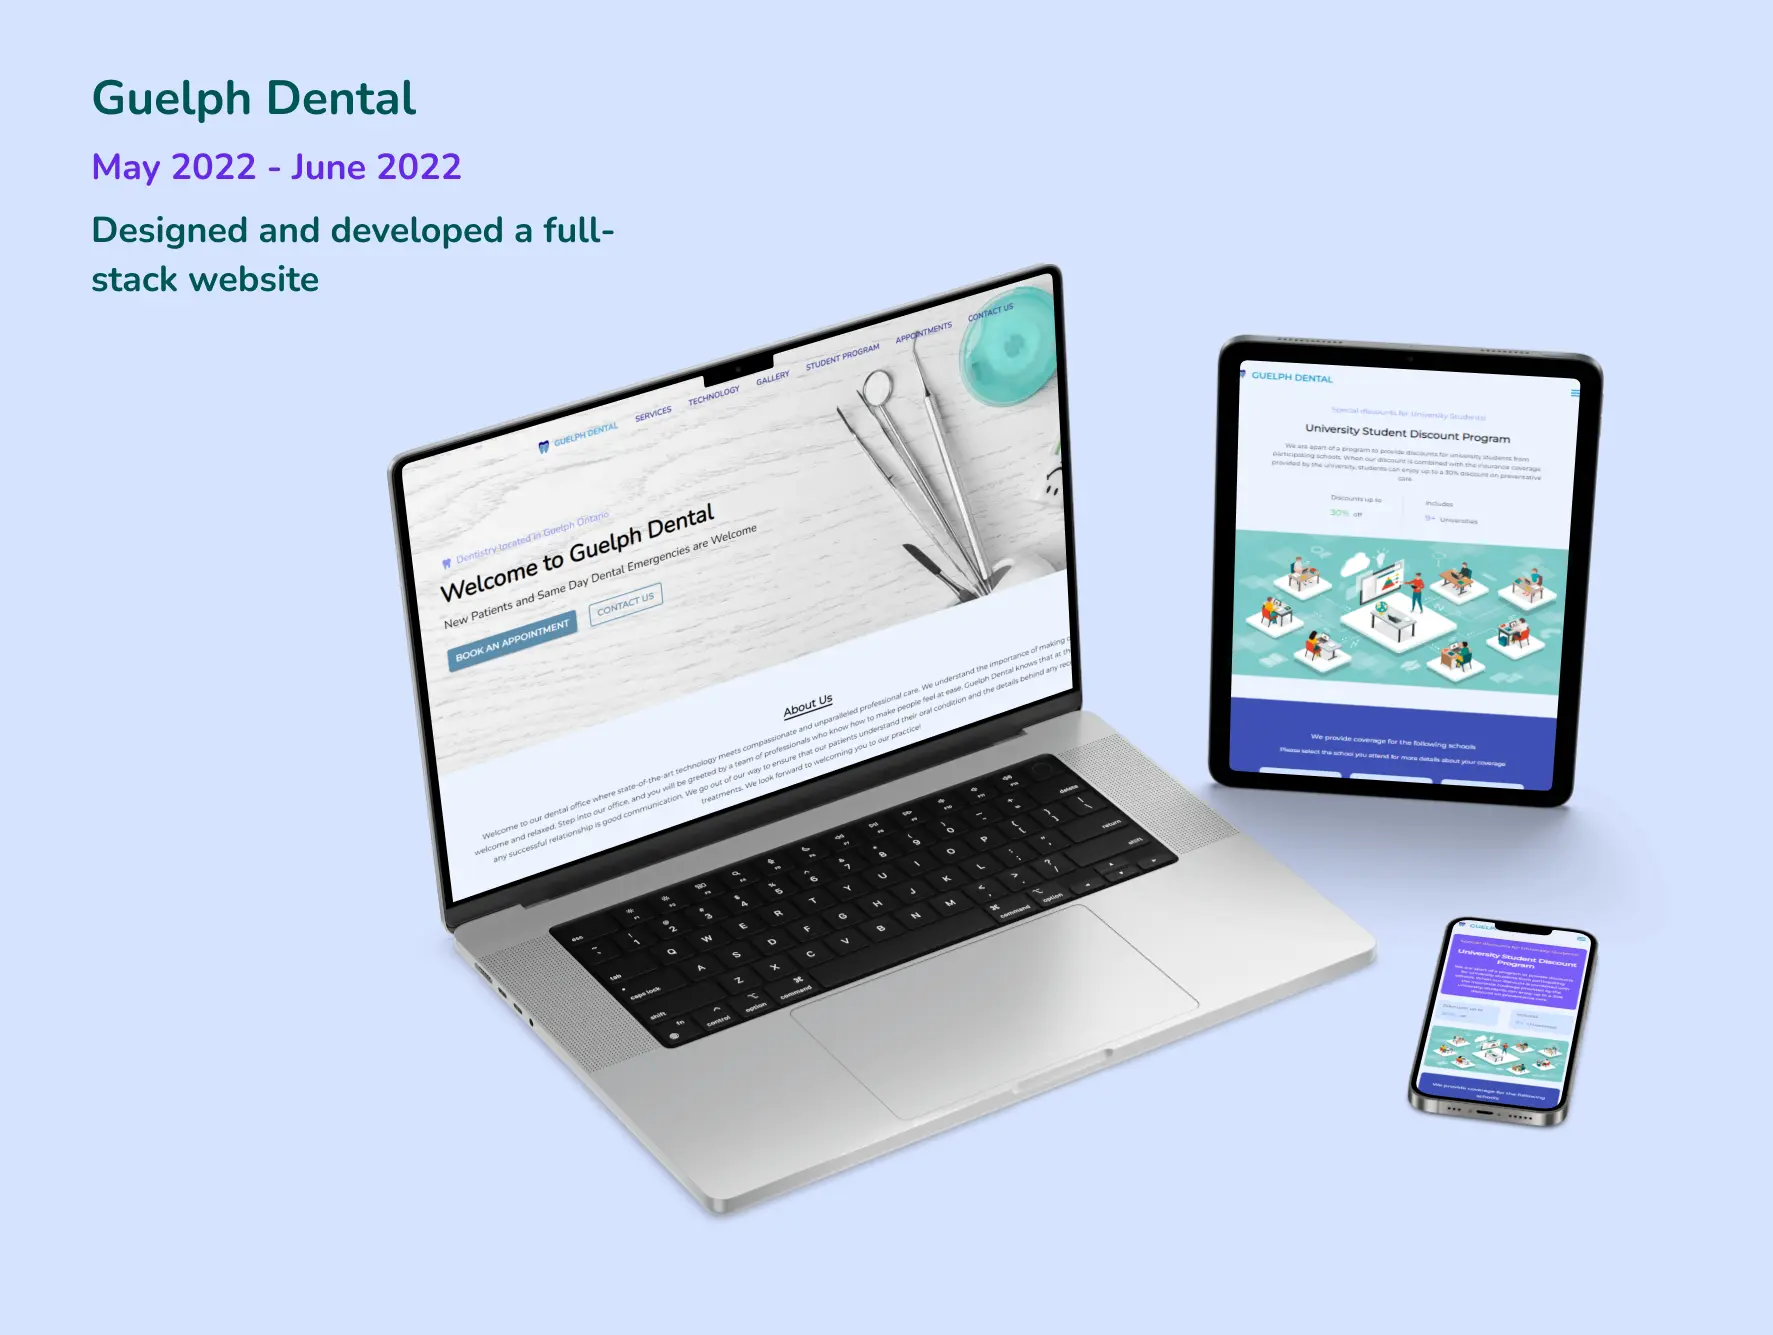
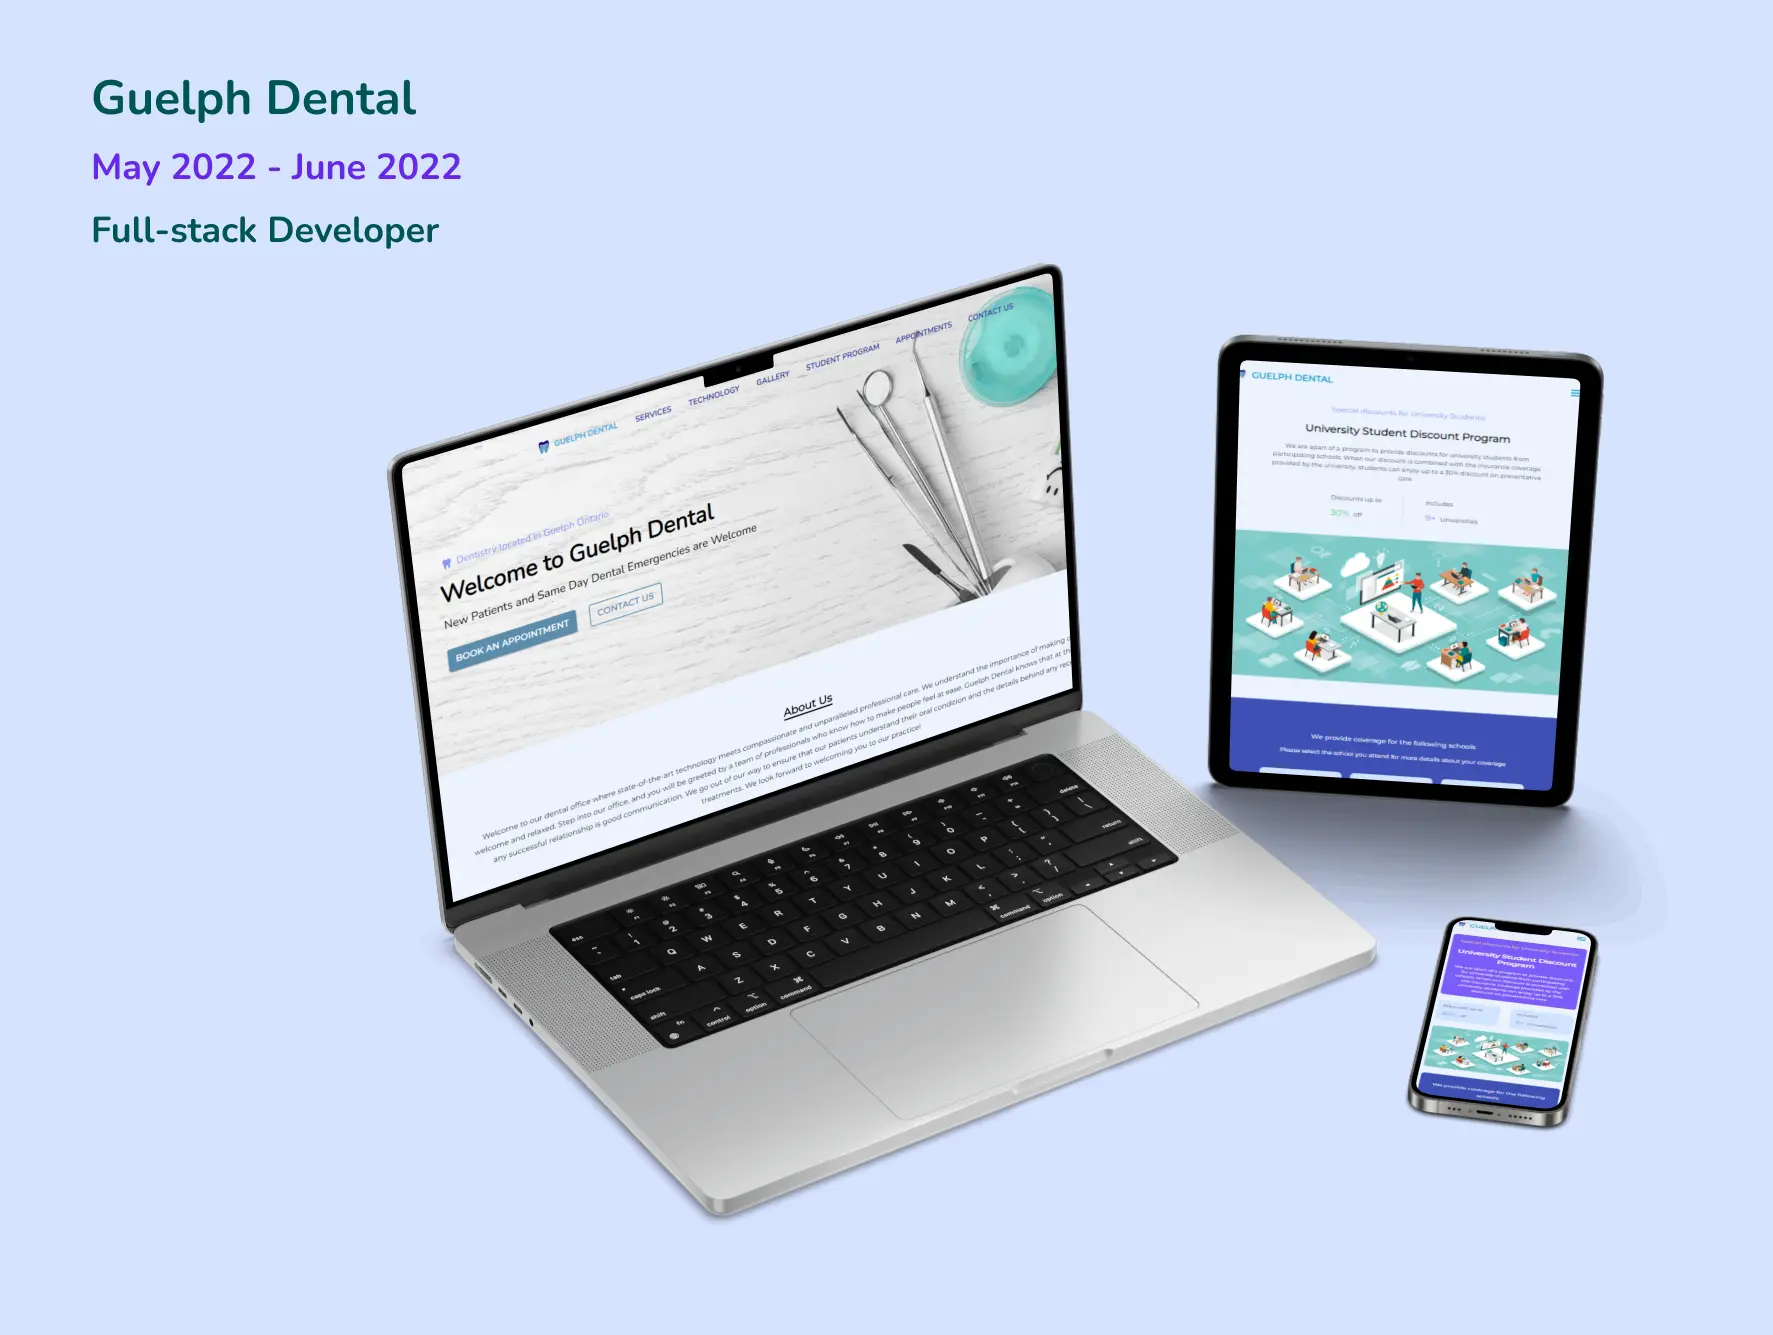
updated work images, removing desc and adding job title instead, looks better and makes more sense since desc is already there when u open

diff --git a/src/Pages/Work/cutsbyjz.js b/src/Pages/Work/cutsbyjz.js
@@ -12,9 +12,9 @@ const Cutsbyjz = () => {
     const { width } = useWidth();
 
     // Forces the page to start at the top if the page is loaded
-    // React.useEffect(() => {
-    //     window.scrollTo(0, 0);
-    // }, []);
+    React.useEffect(() => {
+        window.scrollTo(0, 0);
+    }, []);
 
     return (
         <div style={{position: "absolute", top: "0", left: "0", width: "100%", overflow: "hidden", backgroundColor: "rgb(237, 242, 251, 0.45)"}}>

diff --git a/src/Pages/Work/GuelphDental.js b/src/Pages/Work/GuelphDental.js
@@ -15,7 +15,6 @@ const GuelphDental = () => {
     // Forces the page to start at the top if the page is loaded
     React.useEffect(() => {
         window.scrollTo(0, 0);
-
     }, []);
 
     return (

diff --git a/src/Pages/Work/Lotus.js b/src/Pages/Work/Lotus.js
@@ -12,7 +12,6 @@ const Lotus = () => {
     // Forces the page to start at the top if the page is loaded
     React.useEffect(() => {
         window.scrollTo(0, 0);
-
     }, []);
 
     return (
